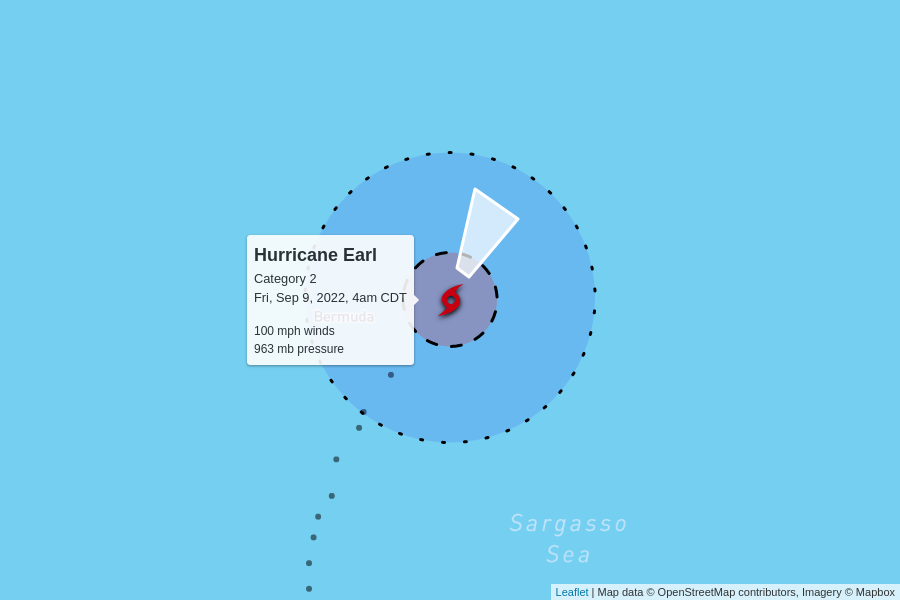
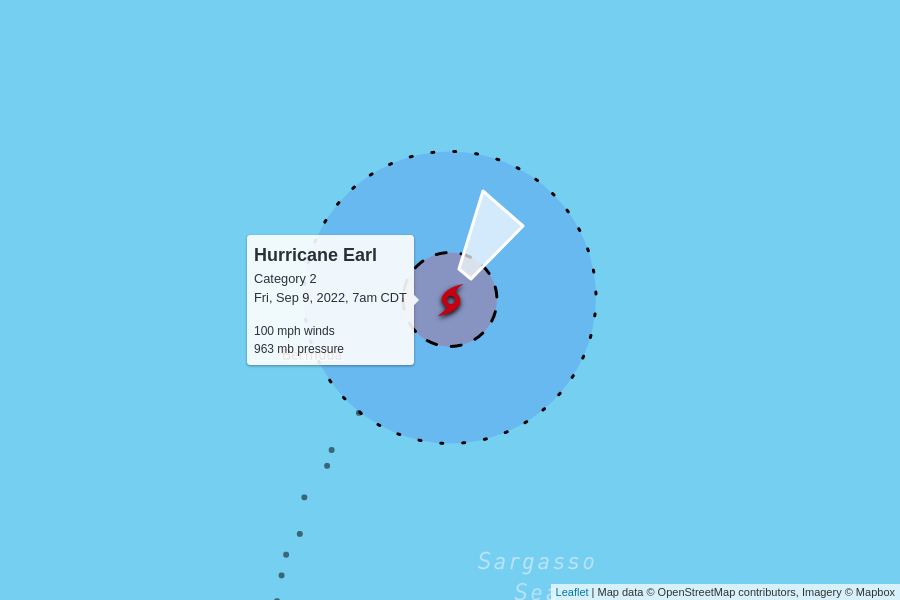
automatic update

diff --git a/docs/index.html b/docs/index.html
@@ -100,7 +100,7 @@
         <td colspan="6" class="storm category-2" >
           <h2>
             Hurricane Earl - Category 2
-            <p class="updated">last updated <span data-time>2022-09-09T09:00:00.000Z</span></p>
+            <p class="updated">last updated <span data-time>2022-09-09T12:00:00.000Z</span></p>
           </h2>
         </td>
       </tr>
@@ -118,9 +118,9 @@
         <td>100 mph</td>
         <td>963 mb</td>
         <td>
-          17 mph to the north-northeast
+          18 mph to the northeast
           <br/>
-          <span style="display: inline-block; font-size: 1.5em; transform: rotate(30deg);">↑</span>
+          <span style="display: inline-block; font-size: 1.5em; transform: rotate(35deg);">↑</span>
         </td>
         <td><a href="https://raw.githubusercontent.com/mgwalker/atlantic-hurricanes/main/data/csv/AL062022.csv">AL062022.csv</a></td>
         <td><a href="https://www.nhc.noaa.gov/archive/2022/EARL.shtml?">NHC advisories</a></td>
